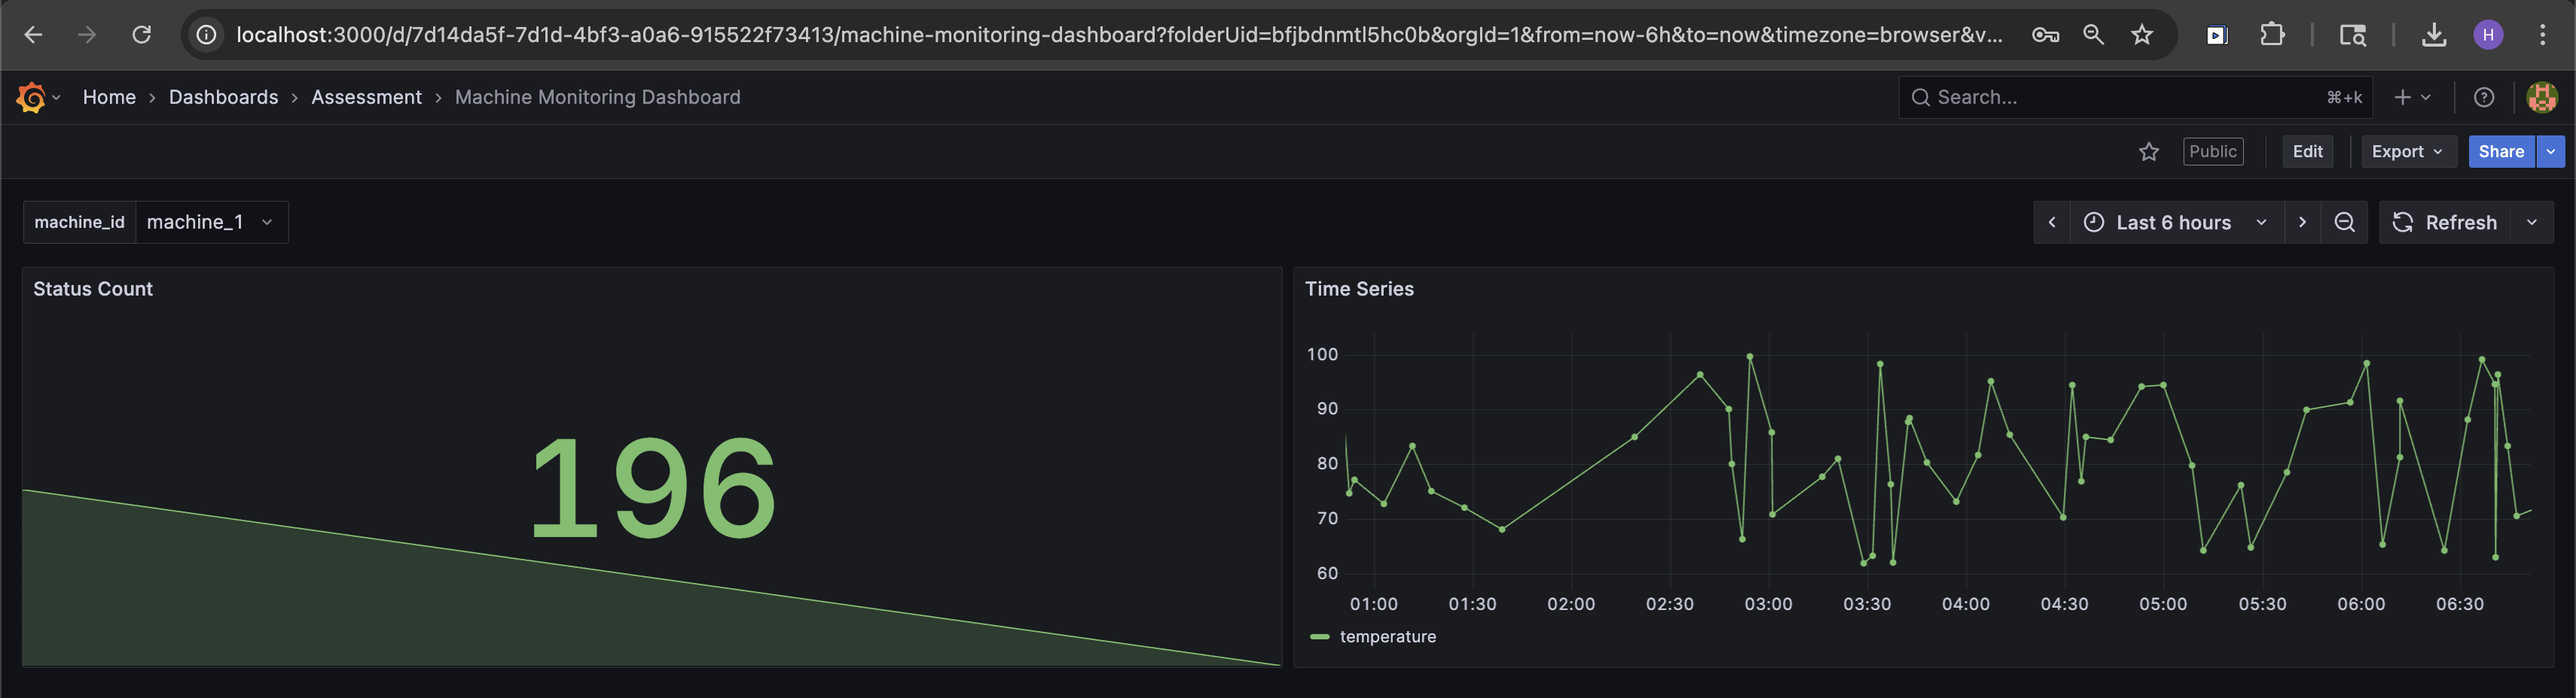
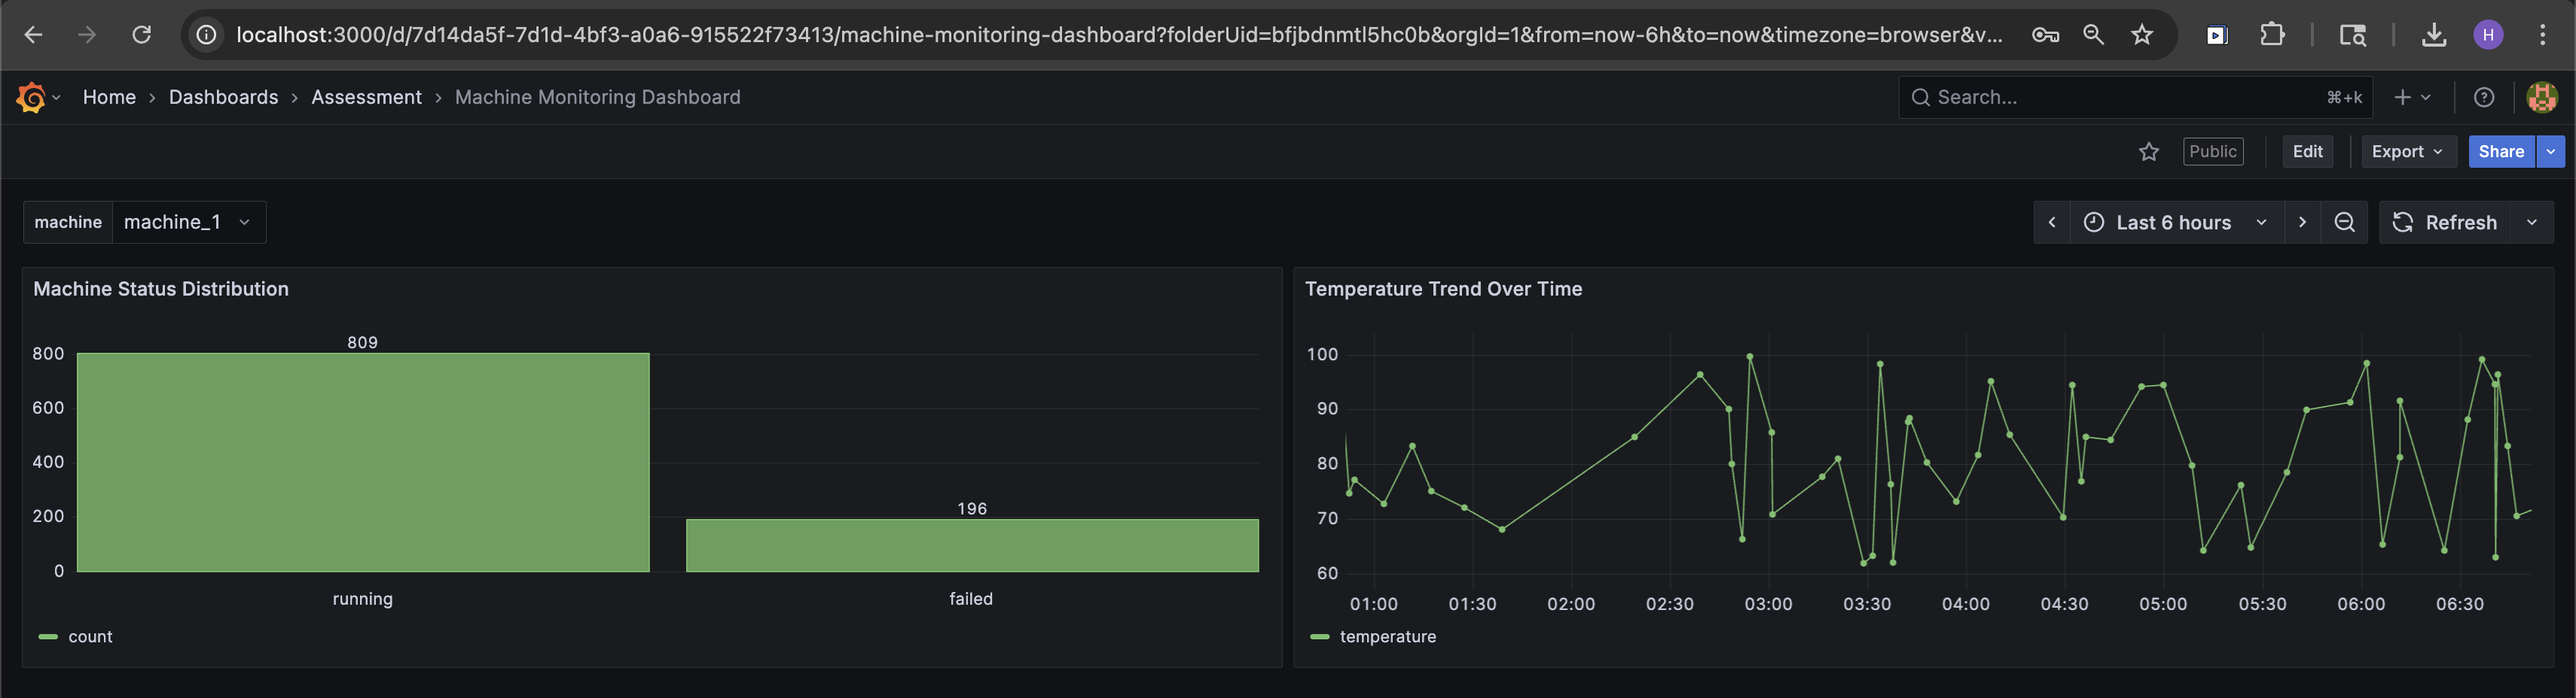
assignment

diff --git a/README.md b/README.md
@@ -99,9 +99,6 @@ FROM generate_series(1, 1000);
    * Type: Time Series
    * Supports filtering via machine variable
 
-3. **Average Machine Temperature**
-
-   * Type: Stat Panel
 
 ---
 
